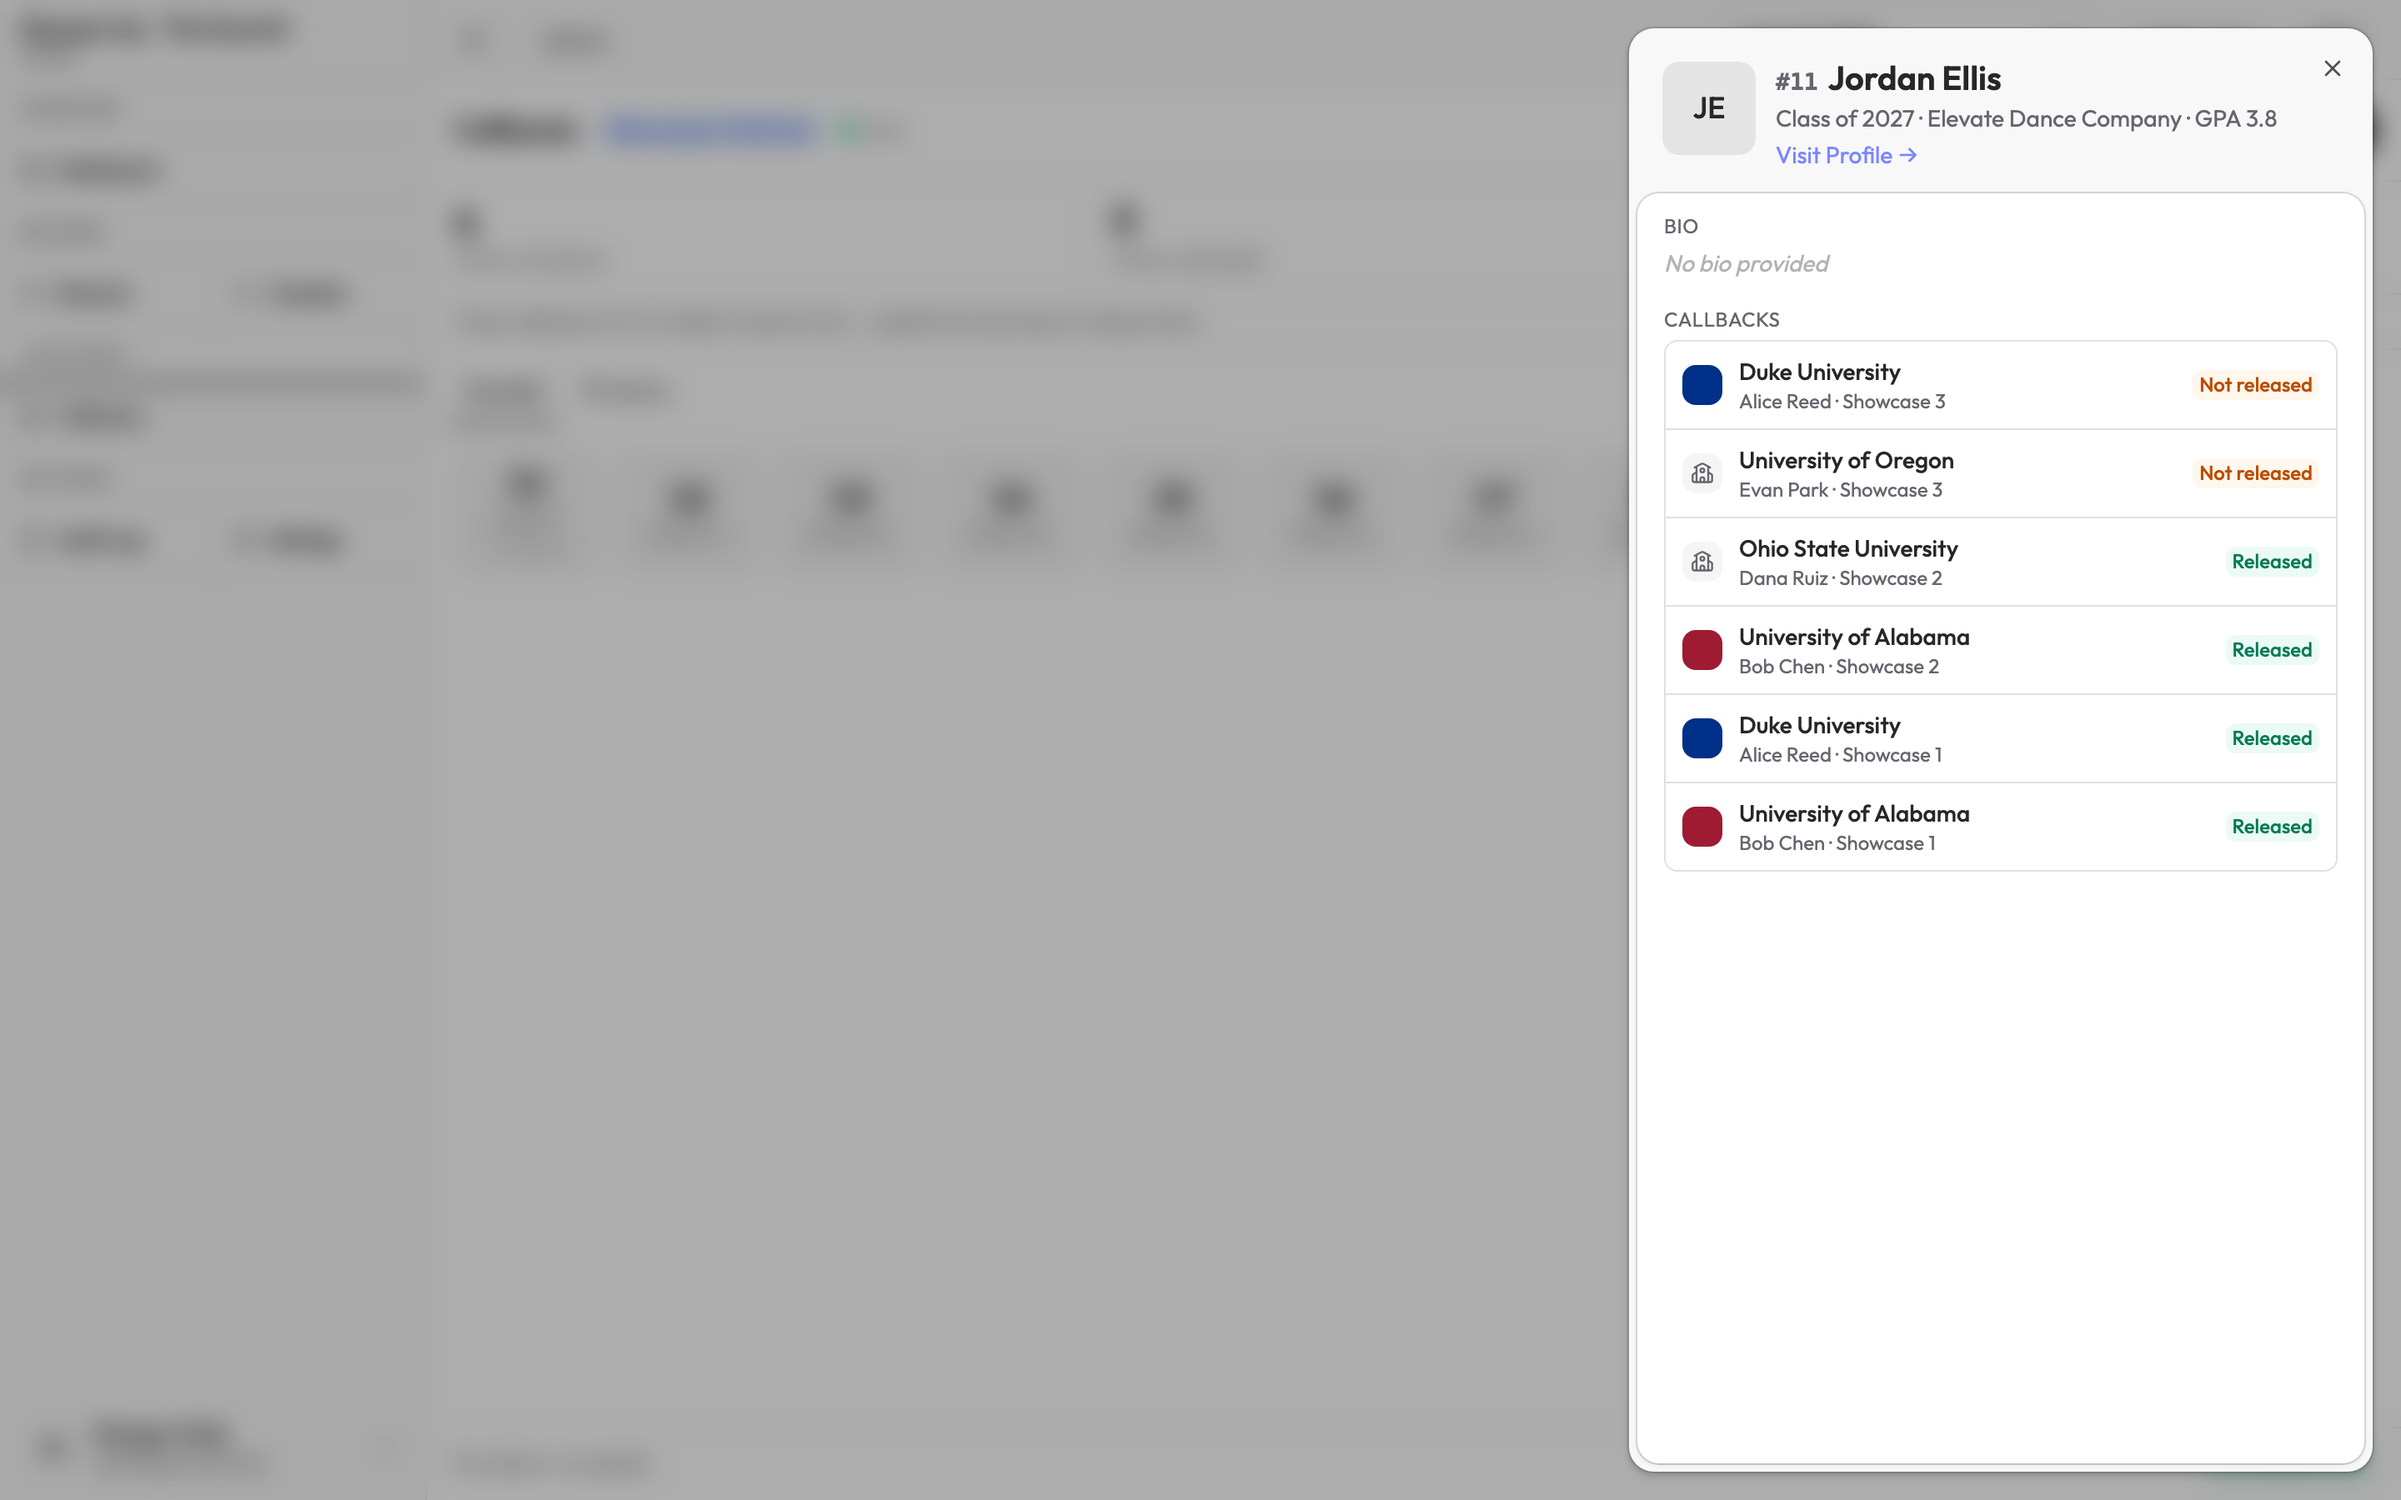
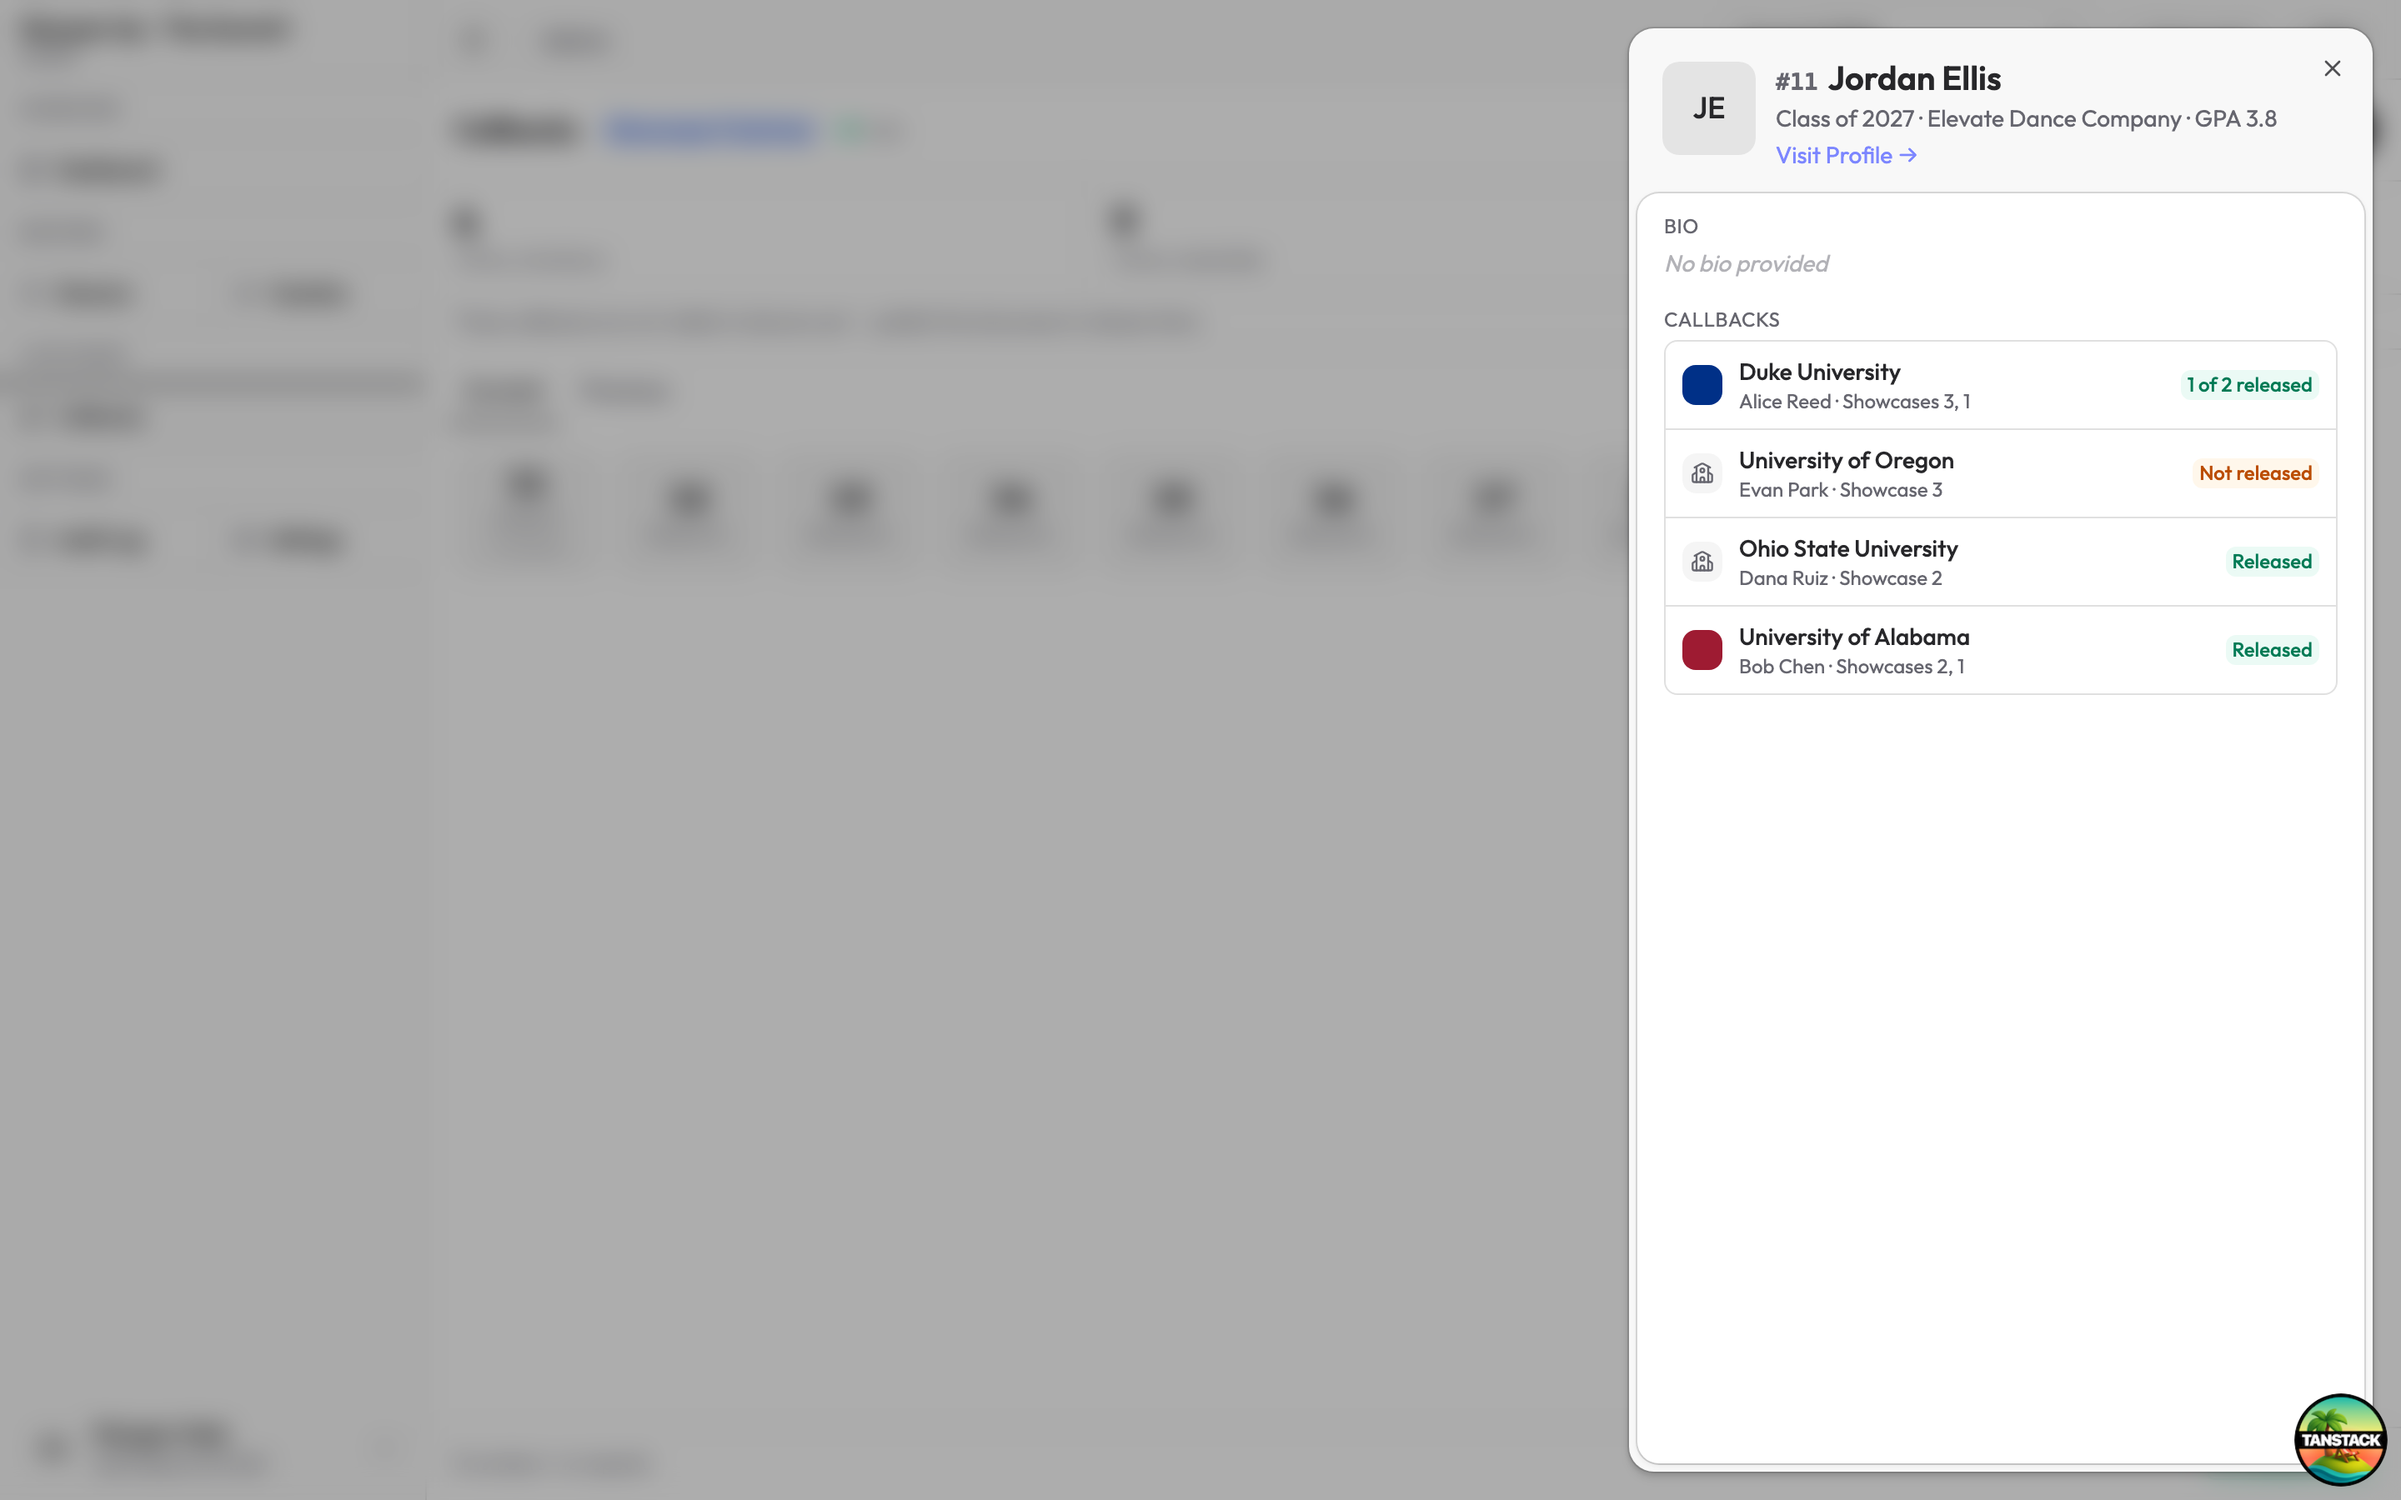
fix(callbacks): collapse duplicate schools in the admin callback list
A school that called the same dancer back in several showcases appeared once
per callback, so a dancer with three callbacks from one program read as three
separate schools to connect with. The list now returns one row per school with
its showcases aggregated, ordered by most recent interest first.

Because a collapsed row can span released and pending callbacks, the badge
reports all three states rather than assuming one: "Released" when every
callback is out, "Not released" when none are, and "N of M released" when the
school called back again in a showcase that has not been published yet.

diff --git a/apps/backend/app/modules/orgs/scouting/callbacks/dancer-detail/service.spec.ts b/apps/backend/app/modules/orgs/scouting/callbacks/dancer-detail/service.spec.ts
@@ -1,0 +1,175 @@
+import { test } from "@japa/runner";
+import { db } from "#database/connection";
+import {
+  eventCallbacks,
+  eventRatings,
+  eventShowcases,
+  publishedCallbacks,
+} from "#database/schema/event-features";
+import { organizations } from "#database/schema/organizations";
+import { orgEvents, eventRosters } from "#database/schema/org-events";
+import { DancerCallbackDetailService } from "./service.ts";
+
+async function setup() {
+  const [org] = await db
+    .insert(organizations)
+    .values({ name: "Test Org", slug: `test-${Date.now()}` })
+    .returning();
+
+  const [event] = await db
+    .insert(orgEvents)
+    .values({
+      orgId: org!.id,
+      name: "Test Event",
+      startDate: "2026-07-01",
+      endDate: "2026-07-02",
+      isActive: true,
+    })
+    .returning();
+
+  return { org: org!, event: event! };
+}
+
+async function addShowcase(eventId: string, number: number, status: string) {
+  const [row] = await db
+    .insert(eventShowcases)
+    .values({
+      eventId,
+      number,
+      status,
+      publishedAt: status === "published" ? new Date() : null,
+    })
+    .returning();
+  return row!;
+}
+
+async function addCoach(eventId: string, name: string, organization: string) {
+  const [roster] = await db
+    .insert(eventRosters)
+    .values({
+      eventId,
+      type: "coach",
+      email: `${name}@test.co`,
+      firstName: name,
+      lastName: "Coach",
+      organization,
+    })
+    .returning();
+  return roster!;
+}
+
+async function addDancer(eventId: string, bib: number) {
+  const [roster] = await db
+    .insert(eventRosters)
+    .values({
+      eventId,
+      type: "dancer",
+      email: `dancer${bib}@test.co`,
+      firstName: "Dee",
+      lastName: "Dancer",
+      bibNumber: bib,
+    })
+    .returning();
+  return roster!;
+}
+
+async function callback(
+  eventId: string,
+  showcaseId: string,
+  coachRosterId: string,
+  dancerRosterId: string,
+  published: boolean
+) {
+  await db
+    .insert(eventCallbacks)
+    .values({ eventId, showcaseId, coachRosterId, dancerRosterId });
+  if (published) {
+    await db
+      .insert(publishedCallbacks)
+      .values({ showcaseId, coachRosterId, dancerRosterId, rank: 1 });
+  }
+}
+
+test.group("DancerCallbackDetailService", (group) => {
+  group.each.setup(async () => {
+    await db.delete(publishedCallbacks).execute();
+    await db.delete(eventCallbacks).execute();
+    await db.delete(eventRatings).execute();
+    await db.delete(eventShowcases).execute();
+    await db.delete(eventRosters).execute();
+    await db.delete(orgEvents).execute();
+  });
+
+  test("collapses a school that called the dancer back in several showcases", async ({
+    assert,
+  }) => {
+    const { org, event } = await setup();
+    const sc2 = await addShowcase(event.id, 2, "published");
+    const sc4 = await addShowcase(event.id, 4, "published");
+    const sc5 = await addShowcase(event.id, 5, "published");
+    const idaho = await addCoach(event.id, "Jordan", "University of Idaho");
+    const dancer = await addDancer(event.id, 1);
+
+    for (const sc of [sc2, sc4, sc5]) {
+      await callback(event.id, sc.id, idaho.id, dancer.id, true);
+    }
+
+    const rows = await new DancerCallbackDetailService().execute(
+      org.id,
+      dancer.id
+    );
+
+    assert.lengthOf(rows, 1);
+    assert.equal(rows[0]!.organization, "University of Idaho");
+    assert.deepEqual(rows[0]!.showcaseNumbers, [5, 4, 2]);
+    assert.equal(rows[0]!.latestShowcaseNumber, 5);
+    assert.equal(rows[0]!.callbackCount, 3);
+    assert.equal(rows[0]!.releasedCount, 3);
+  });
+
+  test("keeps separate schools as separate rows, newest interest first", async ({
+    assert,
+  }) => {
+    const { org, event } = await setup();
+    const sc2 = await addShowcase(event.id, 2, "published");
+    const sc5 = await addShowcase(event.id, 5, "published");
+    const idaho = await addCoach(event.id, "Jordan", "University of Idaho");
+    const gcu = await addCoach(event.id, "Jacque", "Grand Canyon University");
+    const dancer = await addDancer(event.id, 1);
+
+    await callback(event.id, sc2.id, idaho.id, dancer.id, true);
+    await callback(event.id, sc5.id, gcu.id, dancer.id, true);
+
+    const rows = await new DancerCallbackDetailService().execute(
+      org.id,
+      dancer.id
+    );
+
+    assert.lengthOf(rows, 2);
+    assert.equal(rows[0]!.organization, "Grand Canyon University");
+    assert.equal(rows[1]!.organization, "University of Idaho");
+  });
+
+  test("counts released and pending callbacks separately on a collapsed row", async ({
+    assert,
+  }) => {
+    const { org, event } = await setup();
+    const published = await addShowcase(event.id, 1, "published");
+    const active = await addShowcase(event.id, 2, "active");
+    const coach = await addCoach(event.id, "Mixed", "Mixed University");
+    const dancer = await addDancer(event.id, 1);
+
+    await callback(event.id, published.id, coach.id, dancer.id, true);
+    await callback(event.id, active.id, coach.id, dancer.id, false);
+
+    const rows = await new DancerCallbackDetailService().execute(
+      org.id,
+      dancer.id
+    );
+
+    assert.lengthOf(rows, 1);
+    assert.equal(rows[0]!.callbackCount, 2);
+    assert.equal(rows[0]!.releasedCount, 1);
+    assert.deepEqual(rows[0]!.showcaseNumbers, [2, 1]);
+  });
+});

diff --git a/apps/backend/app/modules/orgs/scouting/callbacks/dancer-detail/service.ts b/apps/backend/app/modules/orgs/scouting/callbacks/dancer-detail/service.ts
@@ -17,8 +17,20 @@ export class DancerCallbackDetailService {
    * Every school that called this dancer back, across every showcase of the
    * event — including callbacks that have not been published yet, so admins
    * can tell a dancer who to connect with before results go out.
+   *
+   * One row per school, not per callback. A school that called the same dancer
+   * back in several showcases is a single school to connect with, so its
+   * showcases are collapsed into one row and counted, rather than repeating the
+   * school down the list.
    */
   async execute(orgId: string, dancerRosterId: string) {
+    const isPublished = sql<boolean>`EXISTS (
+      SELECT 1 FROM published_callbacks pc
+      WHERE pc.showcase_id = ${eventCallbacks.showcaseId}
+        AND pc.coach_roster_id = ${eventCallbacks.coachRosterId}
+        AND pc.dancer_roster_id = ${eventCallbacks.dancerRosterId}
+    )`;
+
     const rows = await this.db.use((db) =>
       db
         .select({
@@ -30,16 +42,12 @@ export class DancerCallbackDetailService {
           // link to and no picture to show.
           username: users.username,
           avatar: users.avatar,
-          showcaseId: eventShowcases.id,
-          showcaseNumber: eventShowcases.number,
-          showcaseStatus: eventShowcases.status,
-          createdAt: eventCallbacks.createdAt,
-          isPublished: sql<boolean>`EXISTS (
-            SELECT 1 FROM published_callbacks pc
-            WHERE pc.showcase_id = ${eventCallbacks.showcaseId}
-              AND pc.coach_roster_id = ${eventCallbacks.coachRosterId}
-              AND pc.dancer_roster_id = ${eventCallbacks.dancerRosterId}
-          )`,
+          showcaseNumbers: sql<
+            number[]
+          >`ARRAY_AGG(DISTINCT ${eventShowcases.number} ORDER BY ${eventShowcases.number} DESC)`,
+          latestShowcaseNumber: sql<number>`MAX(${eventShowcases.number})::int`,
+          callbackCount: sql<number>`COUNT(*)::int`,
+          releasedCount: sql<number>`COUNT(*) FILTER (WHERE ${isPublished})::int`,
         })
         .from(eventCallbacks)
         .innerJoin(
@@ -59,8 +67,18 @@ export class DancerCallbackDetailService {
             eq(eventRosters.isStaff, false)
           )
         )
+        .groupBy(
+          eventCallbacks.coachRosterId,
+          eventRosters.firstName,
+          eventRosters.lastName,
+          eventRosters.organization,
+          users.username,
+          users.avatar
+        )
+        // Most recently interested school first, so the admin sees who is
+        // currently in play before who called back rounds ago.
         .orderBy(
-          desc(eventShowcases.number),
+          desc(sql`MAX(${eventShowcases.number})`),
           asc(eventRosters.organization),
           asc(eventRosters.lastName)
         )

diff --git a/apps/frontend/src/features/org/components/dancer-callback-list.tsx b/apps/frontend/src/features/org/components/dancer-callback-list.tsx
@@ -41,31 +41,42 @@ export function DancerCallbackList({
         </p>
       ) : (
         <ul className="divide-border border-border divide-y rounded-md border">
-          {callbacks.map((cb) => (
-            <li
-              key={`${cb.showcaseId}-${cb.coachRosterId}`}
-              className="flex items-center gap-2.5 px-2.5 py-2"
-            >
-              <SchoolAvatar
-                avatarUrl={cb.avatarUrl}
-                organization={cb.organization}
-                className="size-6"
-              />
-              <div className="flex min-w-0 flex-1 flex-col">
-                <SchoolNameLink
-                  username={cb.username}
+          {callbacks.map((cb) => {
+            const allReleased = cb.releasedCount === cb.callbackCount;
+            const noneReleased = cb.releasedCount === 0;
+            return (
+              <li
+                key={cb.coachRosterId}
+                className="flex items-center gap-2.5 px-2.5 py-2"
+              >
+                <SchoolAvatar
+                  avatarUrl={cb.avatarUrl}
                   organization={cb.organization}
-                  className="text-sm font-medium"
+                  className="size-6"
                 />
-                <p className="text-muted-foreground truncate text-xs">
-                  {cb.firstName} {cb.lastName} · Showcase {cb.showcaseNumber}
-                </p>
-              </div>
-              <Badge variant={cb.isPublished ? "success" : "warning"}>
-                {cb.isPublished ? "Released" : "Not released"}
-              </Badge>
-            </li>
-          ))}
+                <div className="flex min-w-0 flex-1 flex-col">
+                  <SchoolNameLink
+                    username={cb.username}
+                    organization={cb.organization}
+                    className="text-sm font-medium"
+                  />
+                  <p className="text-muted-foreground truncate text-xs">
+                    {cb.firstName} {cb.lastName} ·{" "}
+                    {cb.showcaseNumbers.length === 1
+                      ? `Showcase ${cb.showcaseNumbers[0]}`
+                      : `Showcases ${cb.showcaseNumbers.join(", ")}`}
+                  </p>
+                </div>
+                <Badge variant={noneReleased ? "warning" : "success"}>
+                  {allReleased
+                    ? "Released"
+                    : noneReleased
+                      ? "Not released"
+                      : `${cb.releasedCount} of ${cb.callbackCount} released`}
+                </Badge>
+              </li>
+            );
+          })}
         </ul>
       )}
     </div>

diff --git a/apps/frontend/src/lib/api/types.d.ts b/apps/frontend/src/lib/api/types.d.ts
@@ -11392,17 +11392,16 @@ export interface components {
             uniqueCallbacks: number;
         };
         OrgsIdAdminDancersIdCallbacksResponse: {
-            createdAt: string;
             username: string | null;
             firstName: string;
             lastName: string;
             organization: string | null;
             coachRosterId: string;
-            showcaseId: string;
             avatarUrl: string | null;
-            showcaseNumber: number;
-            showcaseStatus: string;
-            isPublished: boolean;
+            showcaseNumbers: number[];
+            latestShowcaseNumber: number;
+            callbackCount: number;
+            releasedCount: number;
         }[];
         OrgsIdShowcasesResponse: {
             number: number;
@@ -11460,8 +11459,8 @@ export interface components {
                 organization: string | null;
                 coachRosterId: string;
                 avatarUrl: string | null;
-                firstShowcaseNumber: number;
                 showcaseNumbers: number[];
+                firstShowcaseNumber: number;
             }[];
         };
         OrgsIdSettingsRequest: {
